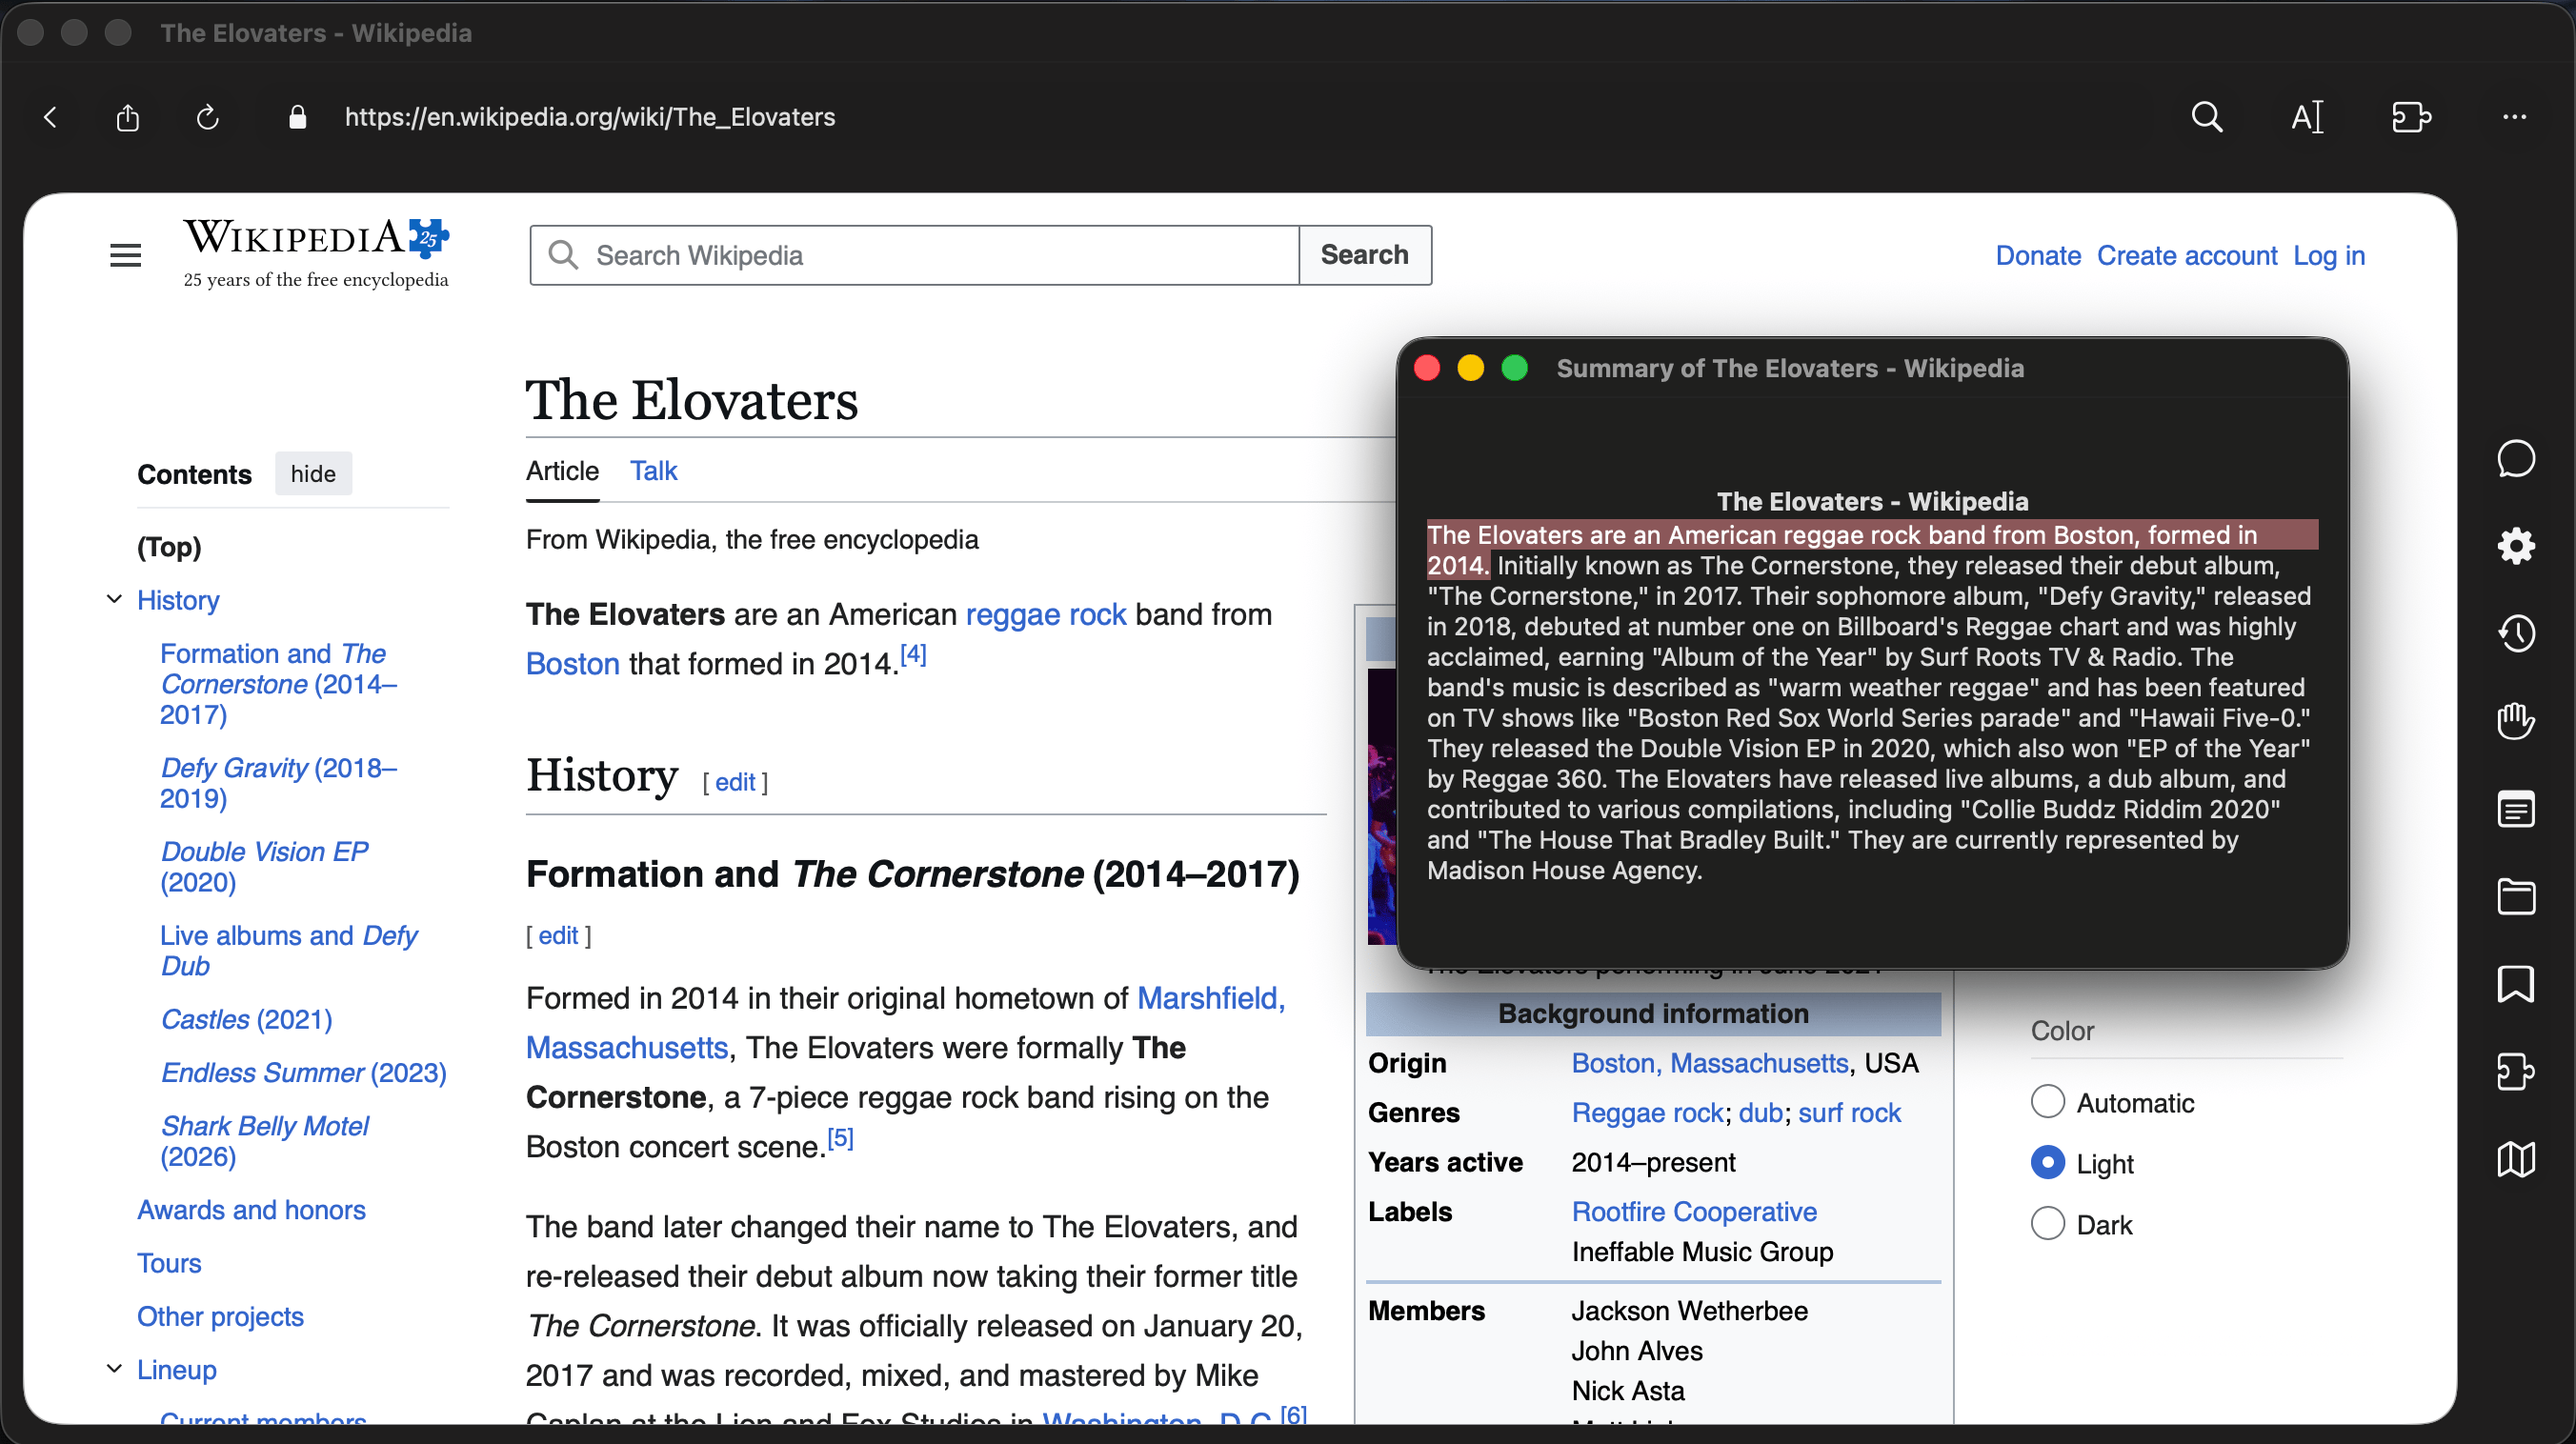
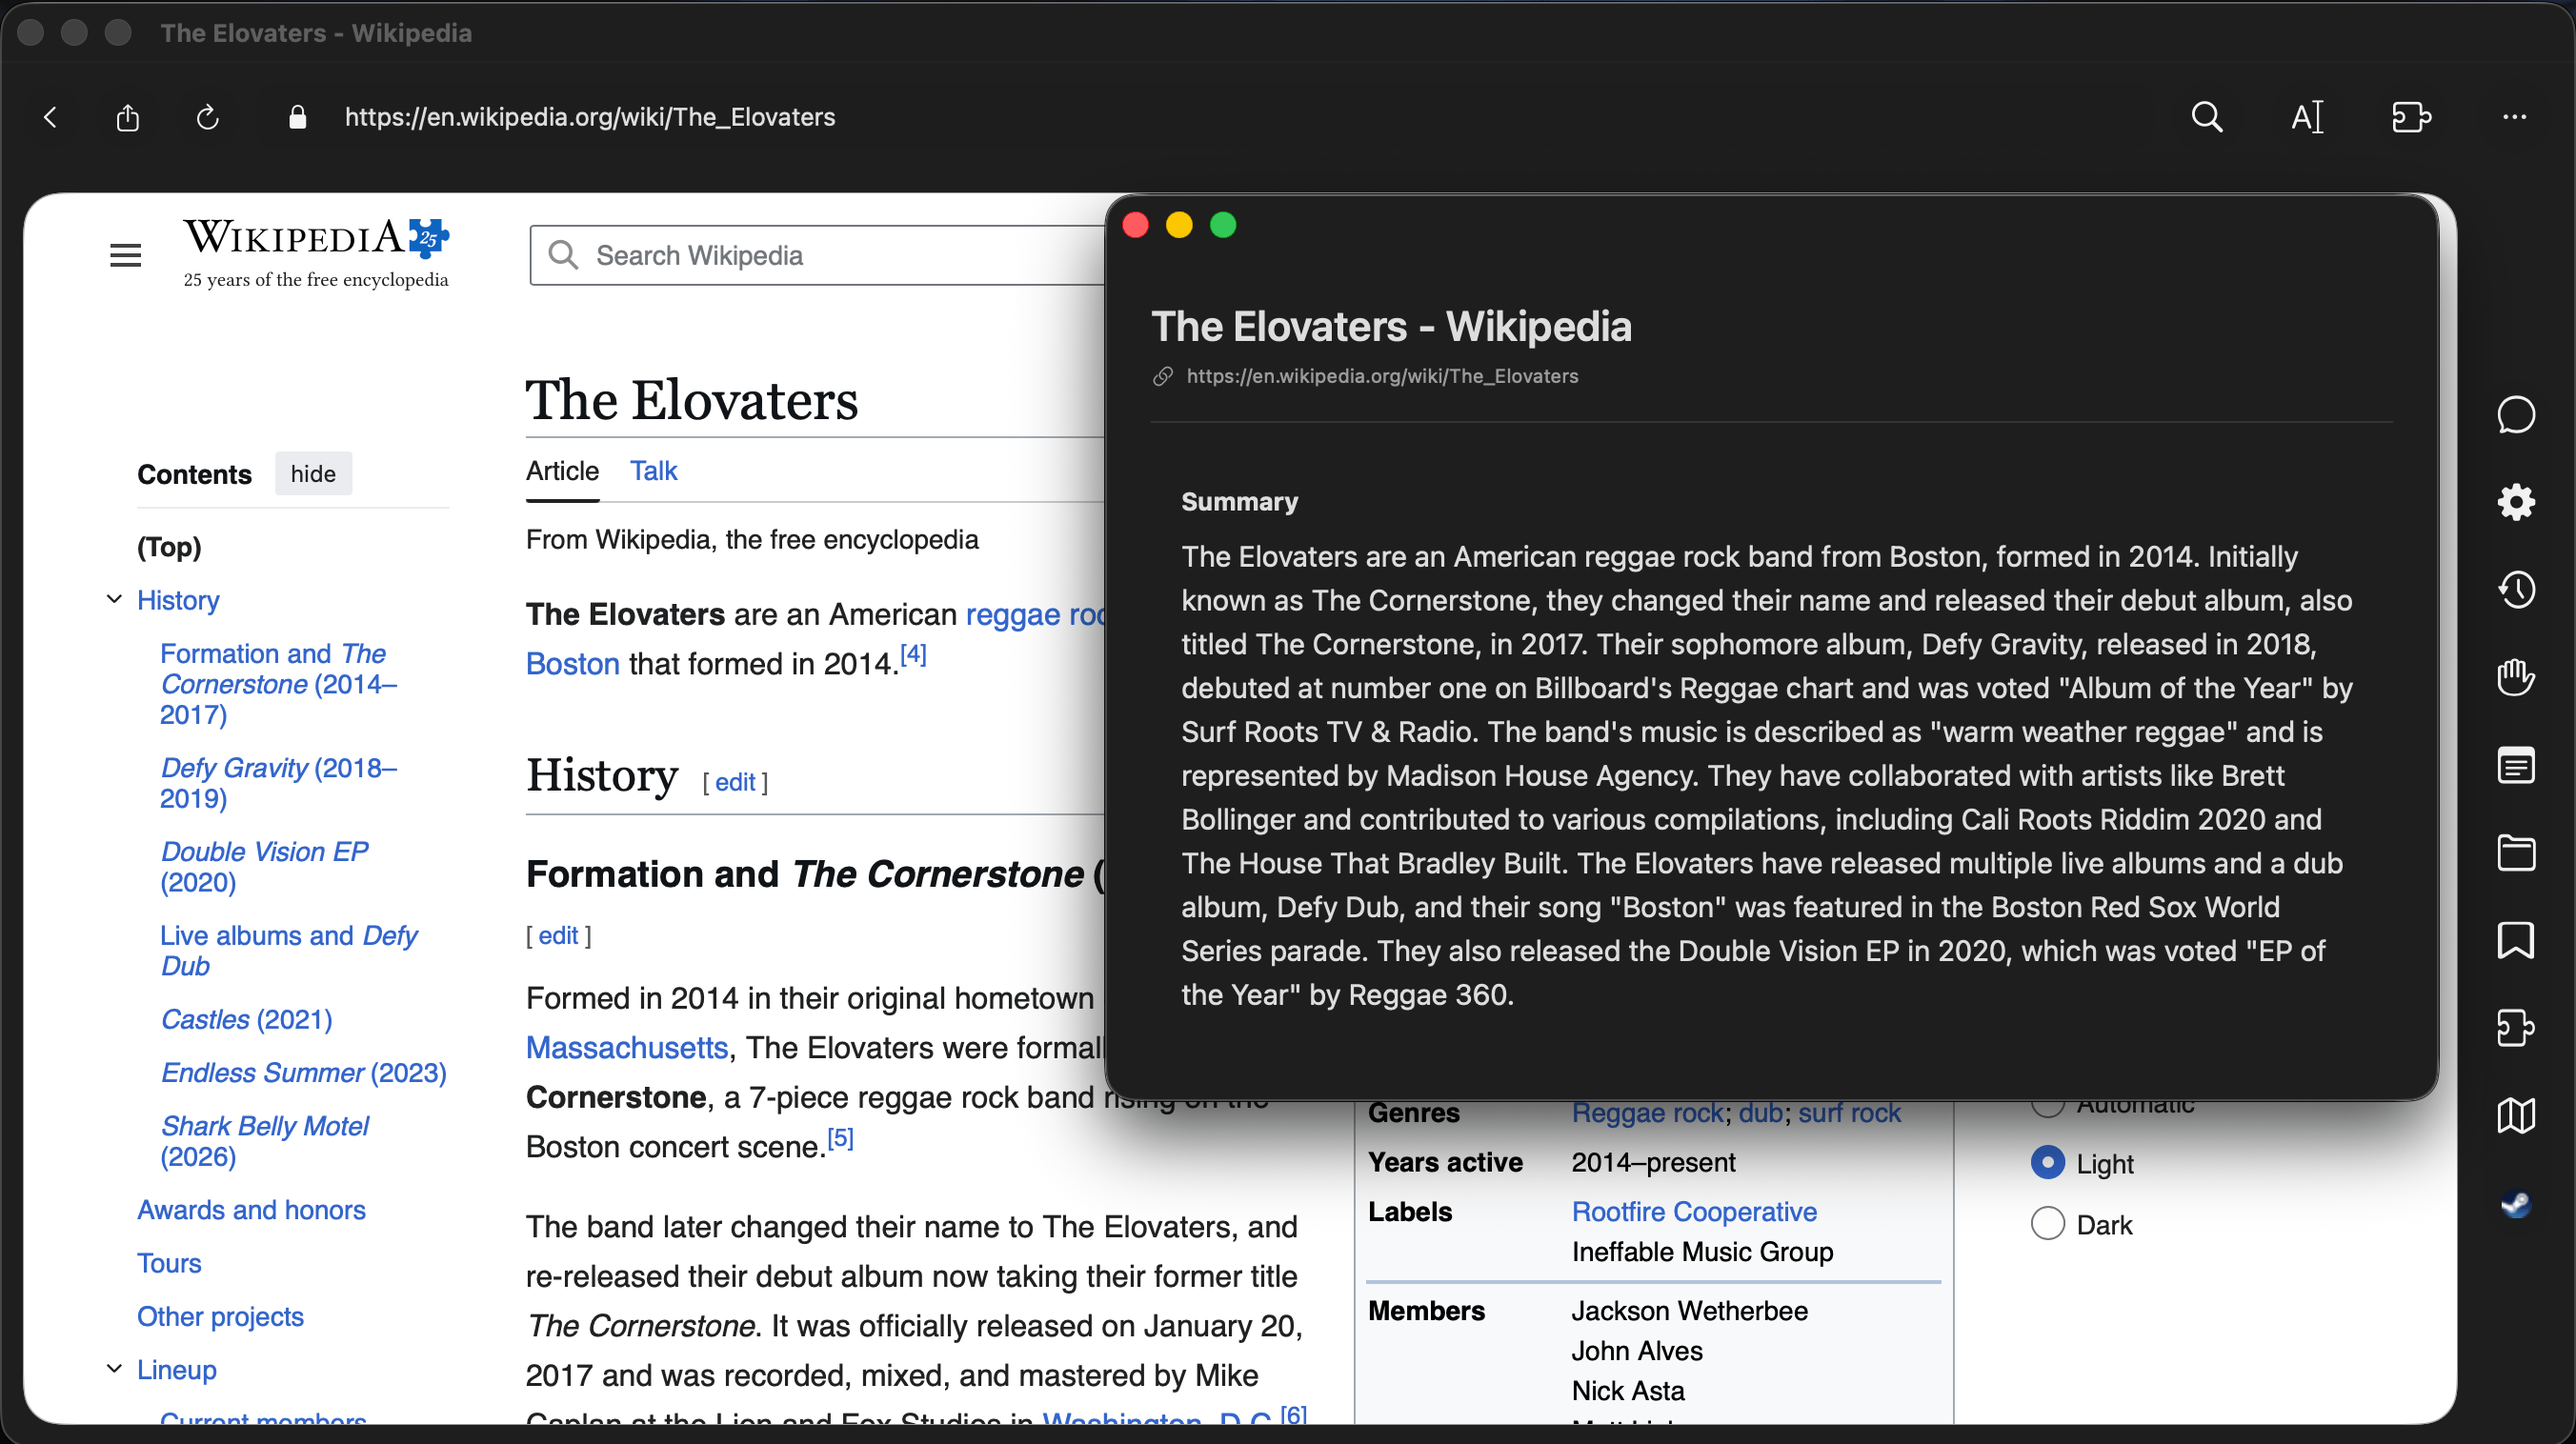
Visual improvements for Summary

Changed region(s): [[0.4038, 0.124, 0.9941, 0.8371]]

diff --git a/browser/ContentView.swift b/browser/ContentView.swift
@@ -185,6 +185,7 @@ struct ContentView: View {
     @State private var userInput = ""
     
     @State private var scanningForEvents = false
+    @State private var summarizing = false
     
     @StateObject private var bookmarkStore = BookmarkStore()
     
@@ -546,6 +547,15 @@ struct ContentView: View {
                                                                 Button("In New Window", systemImage: "macwindow.badge.plus") {
                                                                     createNewWindow(with: url)
                                                                 }
+                                
+                                
+                                Divider()
+                                
+                                Button {
+                                    createFocusWindow(with: url, userAgent: userAgent)
+                                } label: {
+                                    Label("Open in Focus", systemImage: "macwindow")
+                                }
                                                                 
                             } label: {
                                 Label("Duplicate", systemImage: "plus.square.on.square")
@@ -709,6 +719,8 @@ struct ContentView: View {
                                 }
 
                                 
+                                Divider()
+                                
                                 Button {
                                     
                                     Task {
@@ -716,18 +728,14 @@ struct ContentView: View {
                                     }
                                     
                                 } label: {
-                                    Label("Scan Page For Events", systemImage: "qrcode")
-                                }
-                                
-                                Button {
-                                    createFocusWindow(with: url, userAgent: userAgent)
-                                } label: {
-                                    Label("Open in Focus", systemImage: "macwindow")
+                                    Label("Add Events to Calendar", systemImage: "calendar")
                                 }
                                 
                                 Button {
                                     Task {
+                                        summarizing = true
                                         await createSummaryWindow(state: browserState)
+                                        summarizing = false
                                     }
                                 } label: {
                                     Label("Summarize", systemImage: "text.line.3.summary")
@@ -740,6 +748,14 @@ struct ContentView: View {
                                     }
                                 } label: {
                                     Label("Cite", systemImage: "doc.text")
+                                }
+                                
+                                Divider()
+                                
+                                Button {
+                                    createNewTab(with:URL(string:"https://github.com/systemsoftware/balance"))
+                                } label:{
+                                    Label("Source Code", systemImage:"curlybraces")
                                 }
                                 
                             } label: {
@@ -769,6 +785,14 @@ struct ContentView: View {
                     ProgressView()
                         .scaleEffect(0.5)
                     Text("Scanning for events...")
+                }
+            }
+            
+            if summarizing {
+                HStack {
+                    ProgressView()
+                        .scaleEffect(0.5)
+                    Text("Summarizing page...")
                 }
             }
             

diff --git a/browser/Summarize.swift b/browser/Summarize.swift
@@ -31,8 +31,25 @@ func createSummaryWindow(state:BrowserState) async {
         
         if let url = state.url {
             let focusView = SummaryWindow(url: url, title:state.title, summary: result)
-            window.contentView = NSHostingView(rootView: focusView)
+            let hostingView = NSHostingView(rootView: focusView)
+
+            hostingView.frame = NSRect(x: 0, y: 0, width: 700, height: 1000)
+            hostingView.layoutSubtreeIfNeeded()
+
+            let size = hostingView.fittingSize
+
+            window.setContentSize(size)
+            window.contentView = hostingView
+
+            window.center()
+            
+            window.styleMask.insert(.fullSizeContentView)
+            window.isMovableByWindowBackground = true
+            window.titlebarAppearsTransparent = true
+            window.titleVisibility = .hidden
+            
             window.makeKeyAndOrderFront(nil)
+
         }
         
     } catch {
@@ -44,17 +61,79 @@ struct SummaryWindow: View {
     let url: URL
     let title: String
     let summary: String
-    
+
     var body: some View {
-        VStack {
+        ZStack {
+            Color(NSColor.windowBackgroundColor)
+                .ignoresSafeArea()
+
+            ScrollView {
+                VStack(alignment: .leading, spacing: 16) {
+
+                    header
+
+                    Divider()
+
+                    summaryCard
+
+                    footer
+                }
+                .padding(24)
+                
+                .frame(width: 700)
+                .fixedSize(horizontal: false, vertical: true)
+            }
+        }
+    }
+
+    private var header: some View {
+        VStack(alignment: .leading, spacing: 6) {
             Text(title)
+                .font(.system(size: 22, weight: .semibold))
+                .lineLimit(3)
+
+            HStack(spacing: 6) {
+                Image(systemName: "link")
+                    .font(.caption)
+                    .foregroundStyle(.secondary)
+
+                Text(url.absoluteString)
+                    .font(.caption)
+                    .foregroundStyle(.secondary)
+                    .lineLimit(1)
+                    .truncationMode(.middle)
+            }
+        }
+    }
+
+    private var summaryCard: some View {
+        VStack(alignment: .leading, spacing: 10) {
+            Text("Summary")
                 .font(.headline)
+                .foregroundStyle(.primary)
 
             Text(summary)
+                .font(.system(size: 15))
+                .foregroundStyle(.primary)
                 .textSelection(.enabled)
+                .lineSpacing(4)
         }
-        .padding()
-        .frame(maxWidth: 500, maxHeight: 300)
+        .padding(16)
+        .background(
+            RoundedRectangle(cornerRadius: 12, style: .continuous)
+                .fill(Color(NSColor.controlBackgroundColor))
+        )
     }
-    
+
+    private var footer: some View {
+        HStack {
+            Spacer()
+            Button("") {
+                NSApp.keyWindow?.close()
+            }
+            .keyboardShortcut(.escape)
+            .buttonStyle(.plain)
+        }
+        .padding(.top, 8)
+    }
 }

diff --git a/README.md b/README.md
@@ -6,18 +6,22 @@
 
 ### Command Palette
 Instantly access browser commands, execute actions, and navigate efficiently.
+
 ![Command Palette](images/palette.png)
 
 ### Productive Sidebar
 A multi-functional sidebar that hosts built-in tools like Notes, History, and Downloads, alongside your favorite pinned websites.
+
 ![Sidebar](images/sidebar.png)
 
 ### Local AI Chat
 Engage with a local AI assistant directly in your browser. Ask questions, brainstorm, and get help seamlessly and locally.
+
 ![AI Chat](images/chat.png)
 
 ### Split View
 Browse two websites at a time.
+
 ![Split View](images/split.png)
 
 ### Map Workspace
@@ -26,14 +30,17 @@ Automatically extract locations and real-world entities from your open tabs and 
 
 ### AI Page Summarization
 Quickly digest long articles or complex web pages using local Apple Foundation Models.
+
 ![Summary](images/summary.png)
 
 ### Event Extraction
 Intelligently detect event details on a page and instantly export them to your macOS Calendar.
+
 ![Events](images/events.png)
 
 ### Focus Mode
 A distraction-free environment designed to help you concentrate on a single task or reading material.
+
 ![Focus](images/focus.png)
 
 ### Smart Address Bar
